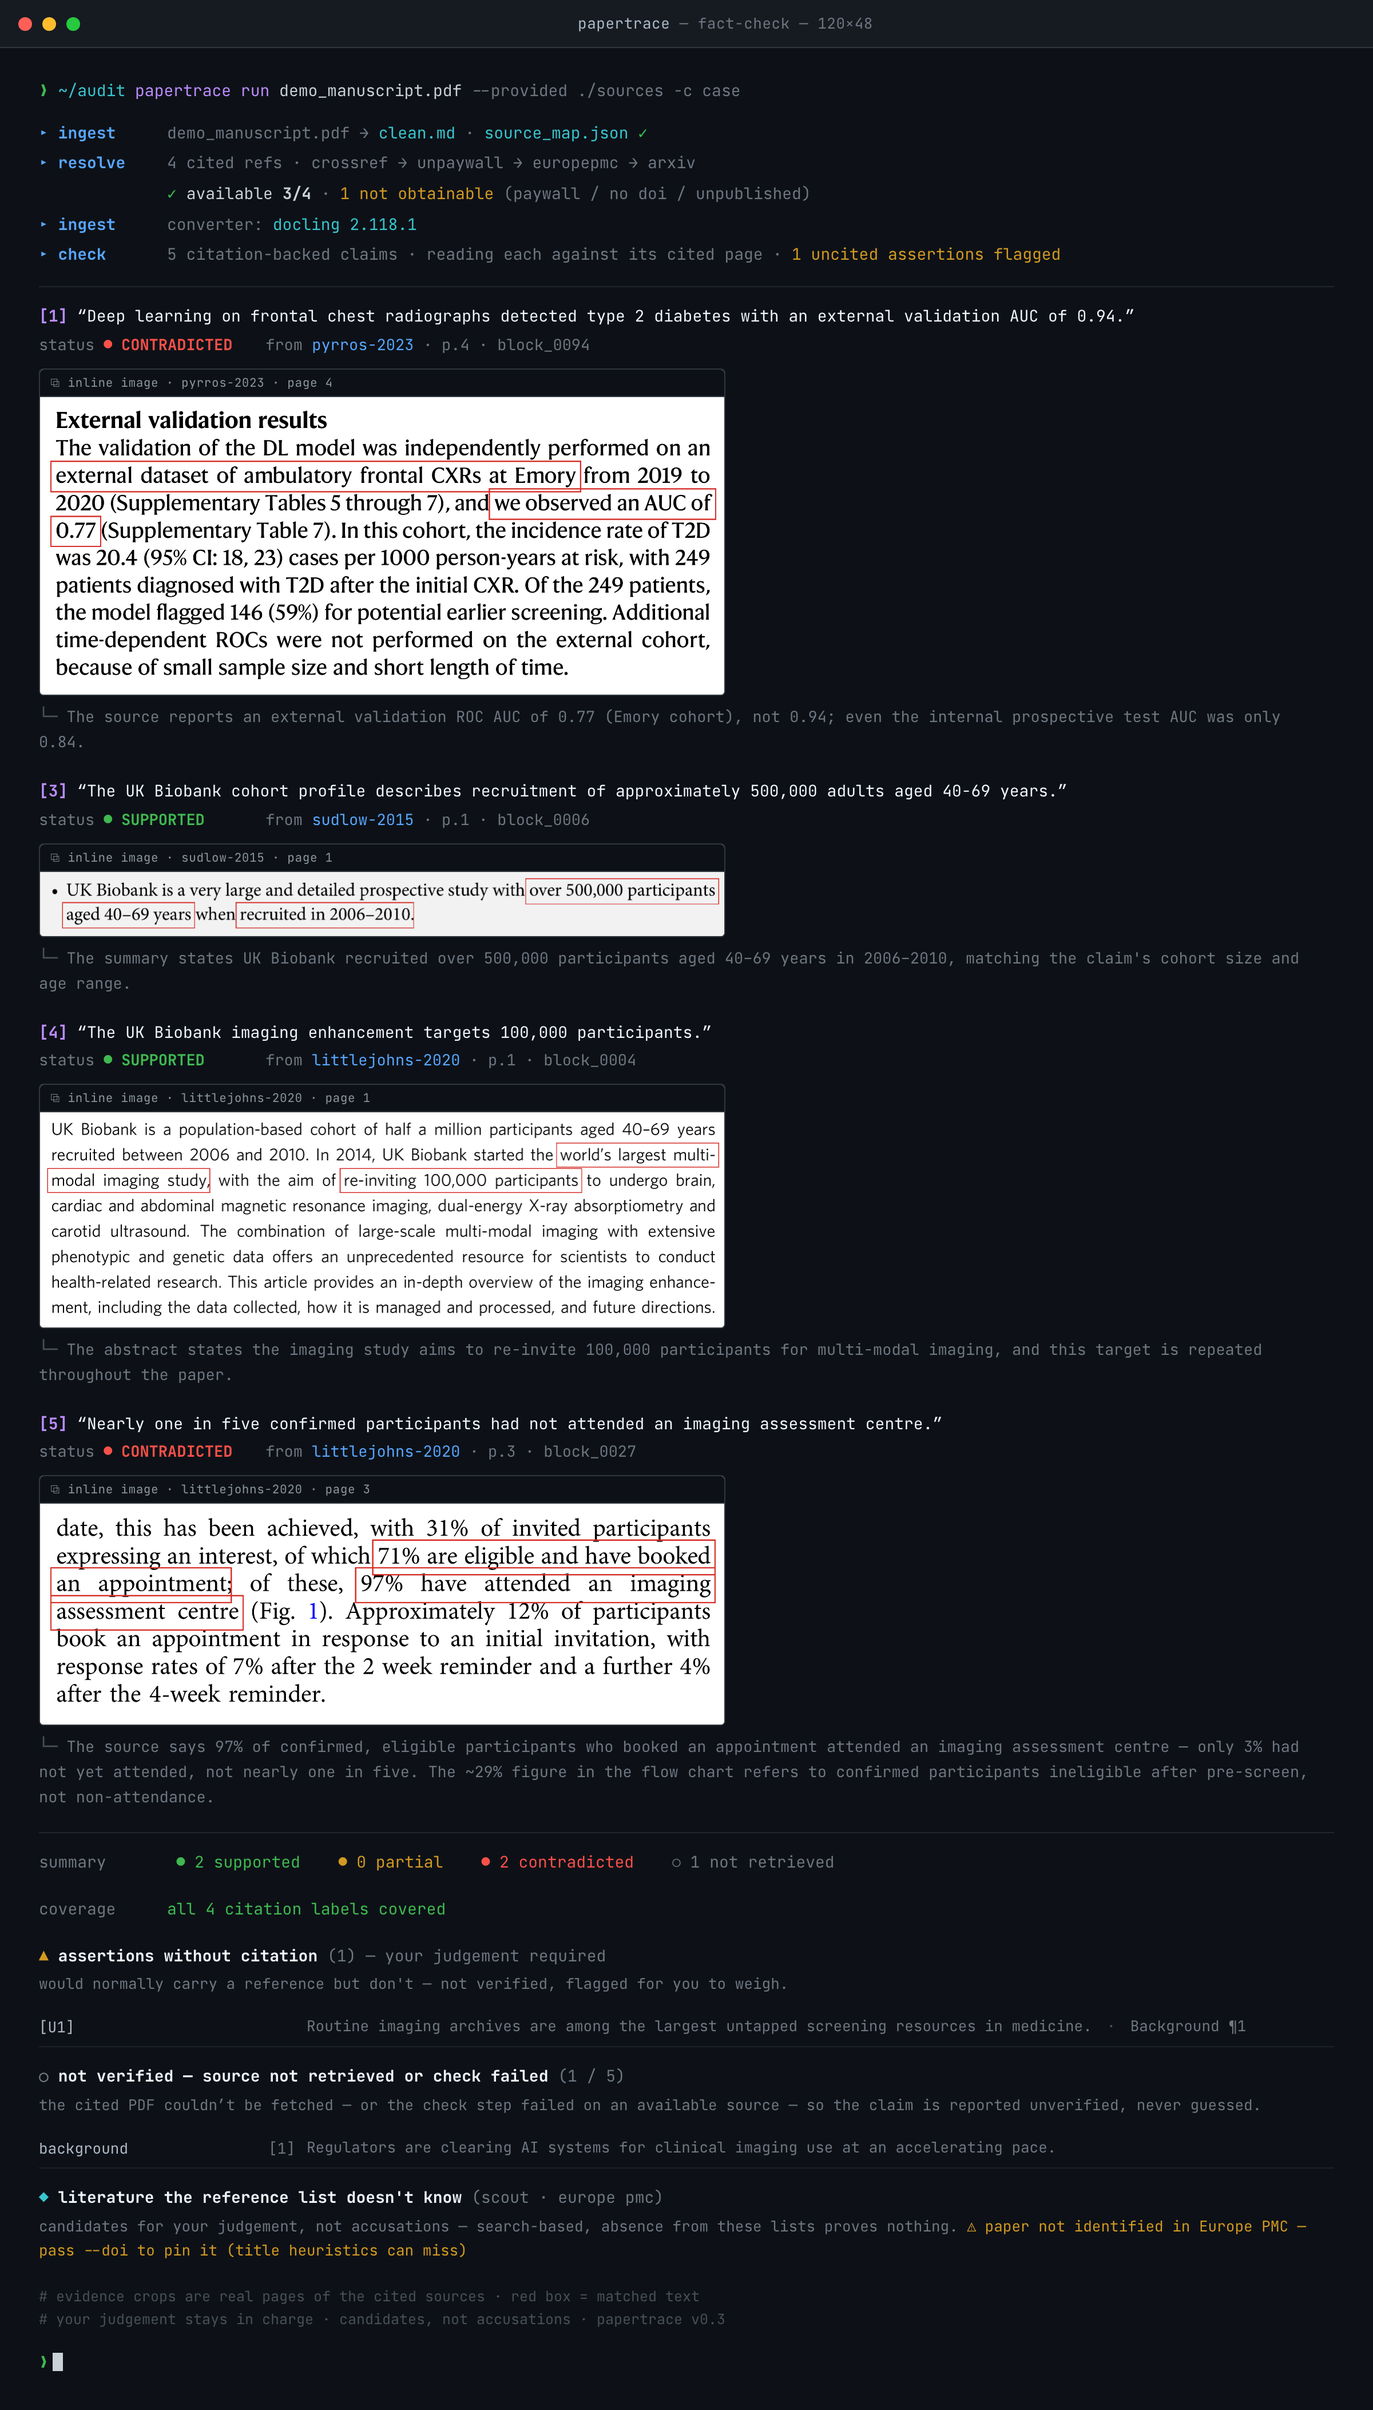
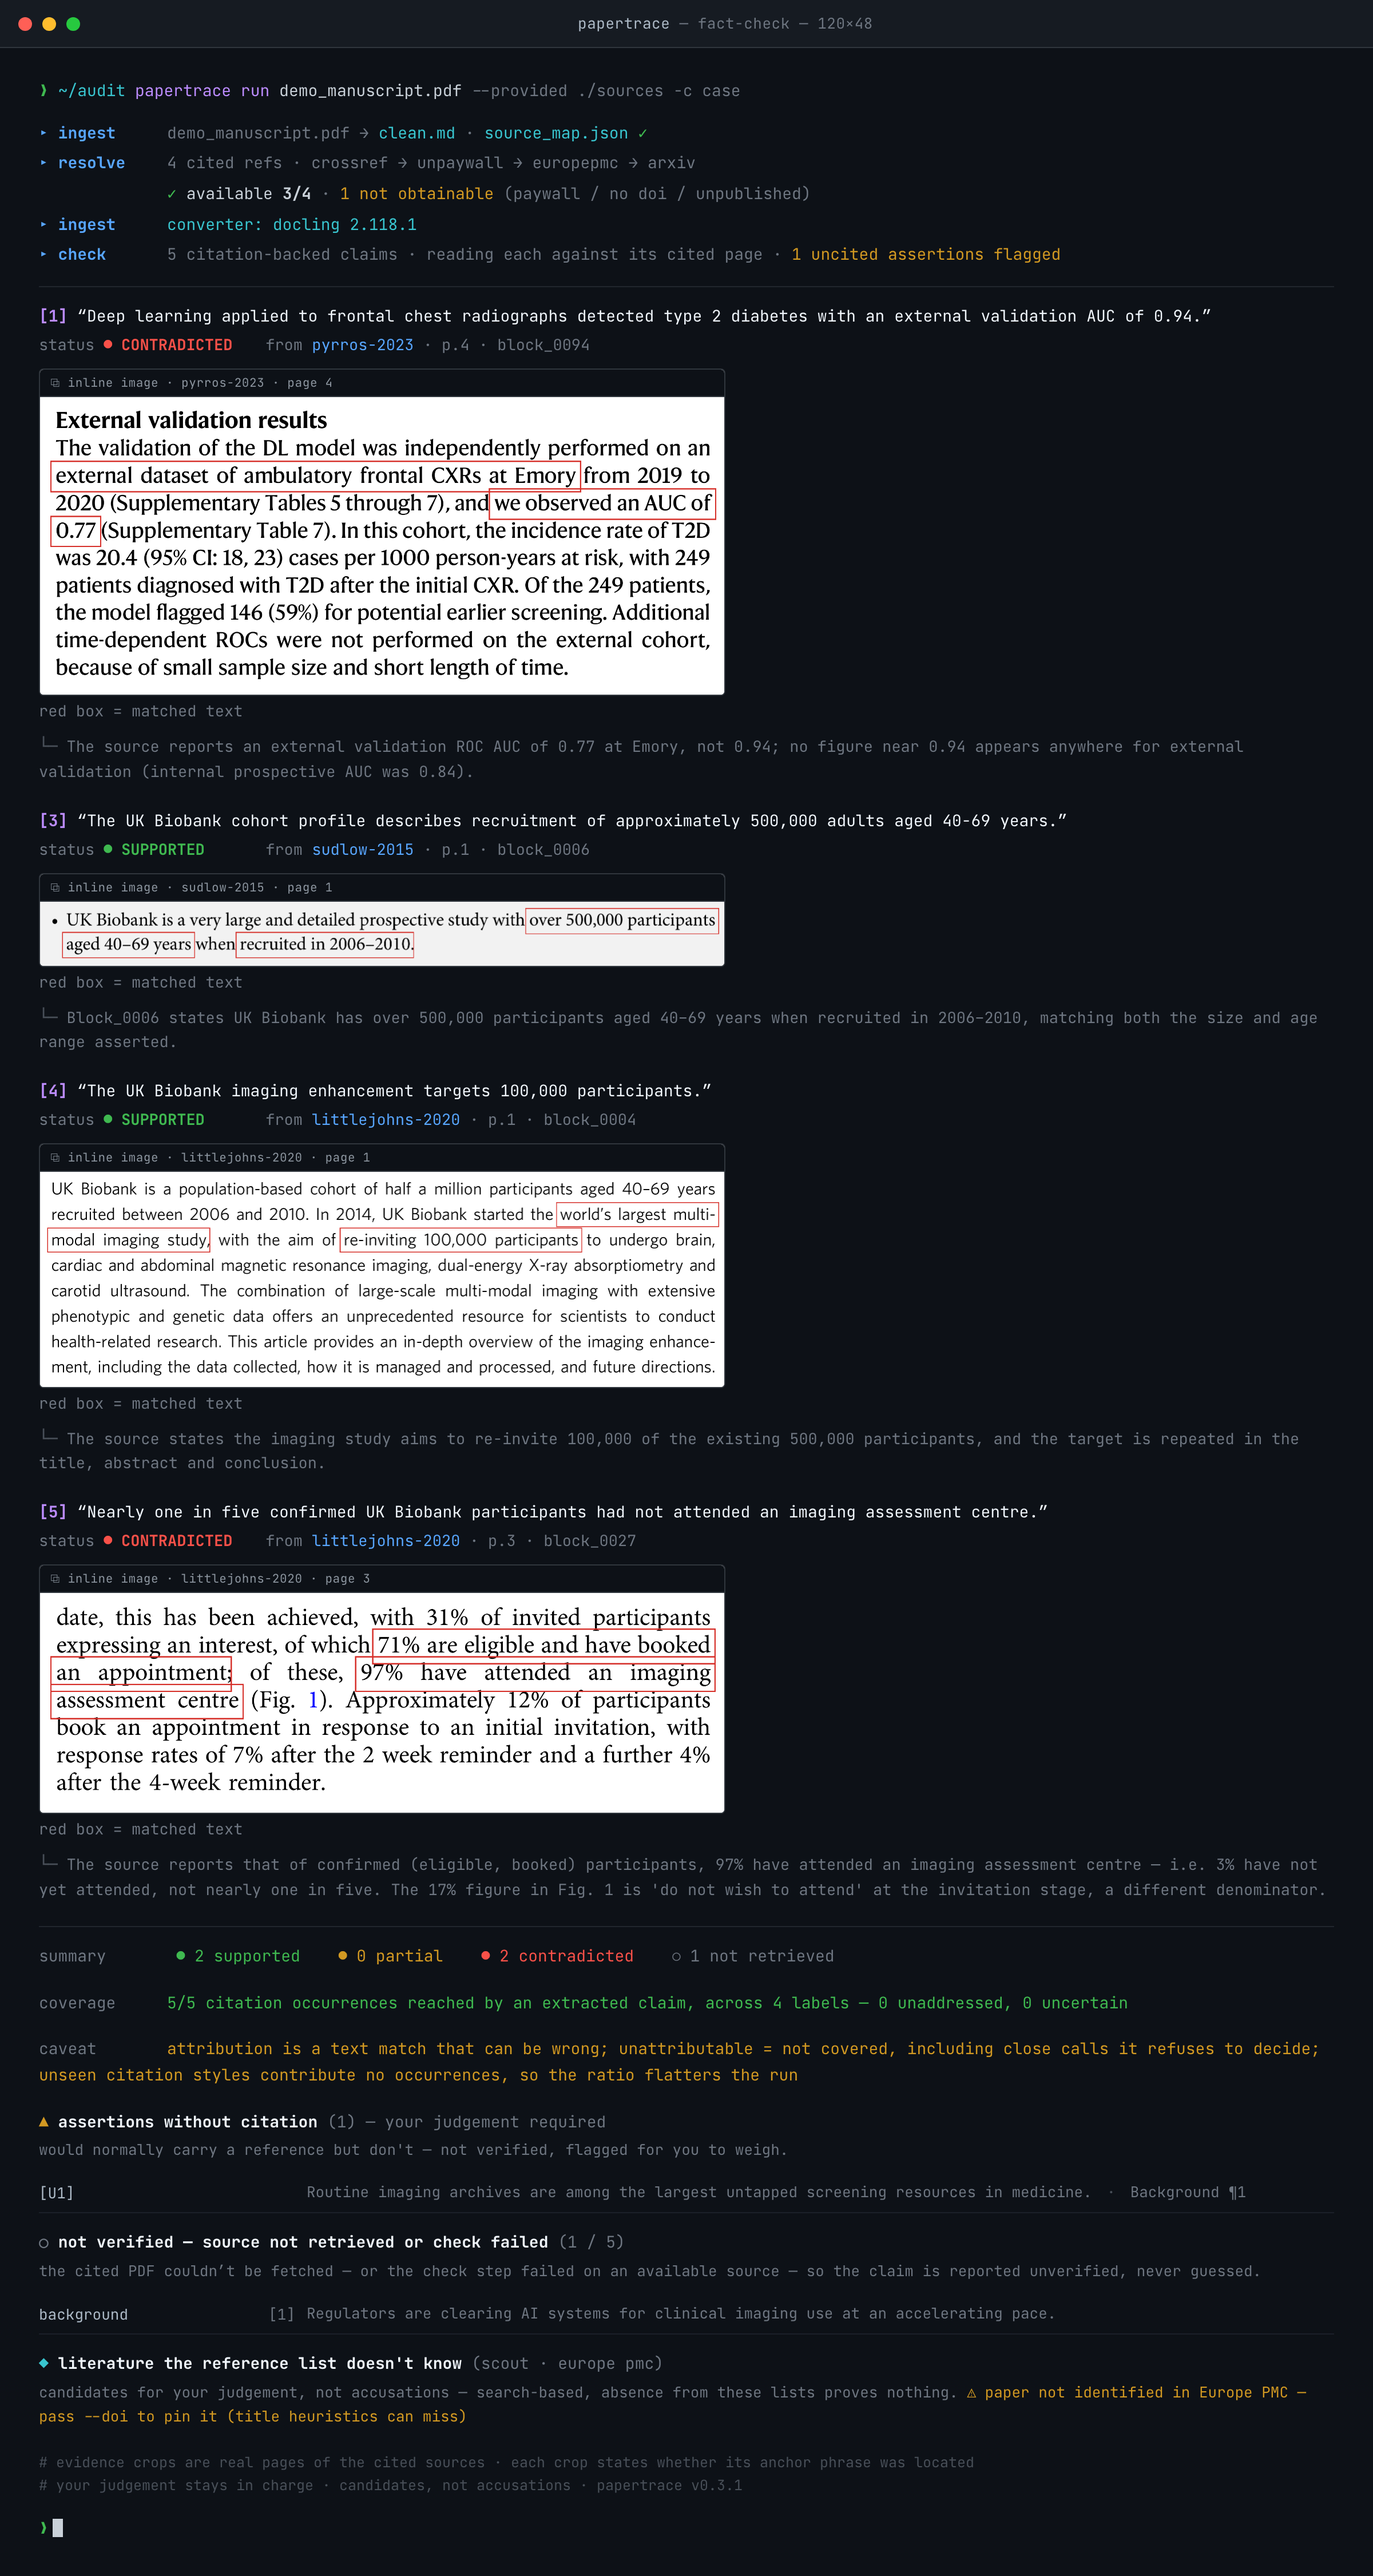
demo: regenerate the committed report against the current pipeline
examples/demo/output/ is what the README sends a first-time reader to, and it
predated every disclosure the last two rounds added. It named the checker only
as "Claude", reported "all 4 citation labels covered", and carried neither the
converter stamp nor the attribution caveat.

Regenerated from a live run. Same result as documented — 2 supported,
2 contradicted, 1 not retrieved, 1 uncited assertion — and now:
"5/5 citation occurrences reached by an extracted claim, across 4 labels".
Claims 4 and 5 both cite [3], which is the duplicate-label case that motivated
occurrence coverage in the first place, so the artefact now demonstrates it.

make_manuscript.py crashed with a bare ModuleNotFoundError when playwright was
absent, which is the case after `pip install -e ".[dev]"`. It names the extra
to install, the way render.py already did for the same import.

diff --git a/examples/demo/make_manuscript.py b/examples/demo/make_manuscript.py
@@ -94,7 +94,19 @@ def main() -> None:
 
     import glob
 
-    from playwright.sync_api import sync_playwright
+    try:
+        from playwright.sync_api import sync_playwright
+    except ImportError:
+        # `[dev]` does not carry playwright, so a contributor who followed
+        # CONTRIBUTING and then tried the demo used to get a bare traceback.
+        # Say what to install, the way render.py does for the same import.
+        raise SystemExit(
+            "This script renders the demo paper with playwright, which is not "
+            "installed.\n"
+            "    pip install -e \".[png]\"      # or \".[full]\" for docling too\n"
+            "    playwright install chromium\n"
+            "then re-run this script."
+        ) from None
 
     exe = None
     hits = sorted(glob.glob("/opt/pw-browsers/chromium-*/chrome-linux/chrome"))

diff --git a/examples/demo/output/report.md b/examples/demo/output/report.md
@@ -1,14 +1,18 @@
 # Fact-Check Report
 
-Checker: `Claude` · PaperTrace · 2026-08-16
+Checker: `claude -p · claude-opus-5[1m]` · PaperTrace · 2026-08-27
 Manuscript: `demo_manuscript.pdf` · Sources: `3 / 4` cited references available
 
 **Claims:** 5 | ✅ **Supported:** 2 | ⚠ **Partial:** 0 | ❌ **Contradicted:** 2 | ⊘ **Not retrieved:** 1
-**Citation coverage:** all 4 citation labels covered ✓
+**Citation coverage:** 5/5 citation occurrences reached by an extracted claim, across 4 labels — 0 unaddressed, 0 uncertain. Coverage counts places an extracted claim *reached*, not sources that were read.
+
+> Ingest `converter: docling 2.118.1` — layout-aware.
+
+> ⚠ How to read that figure: attribution is a text match that can be wrong — deciding which citation a claim came from is a text comparison, so the counts can be right while a pointer is wrong. An attribution the tool cannot make counts as NOT covered, never as covered — and it refuses close calls, so two similar sentences citing one reference can both read as unaddressed where a reader would pair them at a glance. This figure understates coverage there. A sentence citing the same reference twice needs two extracted claims, so the ratio is not comparable between papers. And detection still reads bracketed numeric markers only — a citation style it cannot see contributes no occurrences at all, which makes this ratio look better than reality, not worse.
 
 ---
 
-## Claim 1: "Deep learning on frontal chest radiographs detected type 2 diabetes with an external validation AUC of 0.94."
+## Claim 1: "Deep learning applied to frontal chest radiographs detected type 2 diabetes with an external validation AUC of 0.94."
 
 **Status:** ❌ CONTRADICTED
 **Location:** Background ¶1 · cites [1]
@@ -17,8 +21,7 @@ Manuscript: `demo_manuscript.pdf` · Sources: `3 / 4` cited references available
 - **Source:** Page 4 `(block_0094)` 
 ![evidence](evidence/claim_01_pyrros-2023_p4.png)
 *red box = matched text*
-
-> The source reports an external validation ROC AUC of 0.77 (Emory cohort), not 0.94; even the internal prospective test AUC was only 0.84.
+> The source reports an external validation ROC AUC of 0.77 at Emory, not 0.94; no figure near 0.94 appears anywhere for external validation (internal prospective AUC was 0.84).
 
 ## Claim 3: "The UK Biobank cohort profile describes recruitment of approximately 500,000 adults aged 40-69 years."
 
@@ -29,8 +32,7 @@ Manuscript: `demo_manuscript.pdf` · Sources: `3 / 4` cited references available
 - **Source:** Page 1 `(block_0006)` 
 ![evidence](evidence/claim_03_sudlow-2015_p1.png)
 *red box = matched text*
-
-> The summary states UK Biobank recruited over 500,000 participants aged 40–69 years in 2006–2010, matching the claim's cohort size and age range.
+> Block_0006 states UK Biobank has over 500,000 participants aged 40–69 years when recruited in 2006–2010, matching both the size and age range asserted.
 
 ## Claim 4: "The UK Biobank imaging enhancement targets 100,000 participants."
 
@@ -41,10 +43,9 @@ Manuscript: `demo_manuscript.pdf` · Sources: `3 / 4` cited references available
 - **Source:** Page 1 `(block_0004)` 
 ![evidence](evidence/claim_04_littlejohns-2020_p1.png)
 *red box = matched text*
+> The source states the imaging study aims to re-invite 100,000 of the existing 500,000 participants, and the target is repeated in the title, abstract and conclusion.
 
-> The abstract states the imaging study aims to re-invite 100,000 participants for multi-modal imaging, and this target is repeated throughout the paper.
-
-## Claim 5: "Nearly one in five confirmed participants had not attended an imaging assessment centre."
+## Claim 5: "Nearly one in five confirmed UK Biobank participants had not attended an imaging assessment centre."
 
 **Status:** ❌ CONTRADICTED
 **Location:** Population imaging ¶1 · cites [3]
@@ -53,8 +54,7 @@ Manuscript: `demo_manuscript.pdf` · Sources: `3 / 4` cited references available
 - **Source:** Page 3 `(block_0027)` 
 ![evidence](evidence/claim_05_littlejohns-2020_p3.png)
 *red box = matched text*
-
-> The source says 97% of confirmed, eligible participants who booked an appointment attended an imaging assessment centre — only 3% had not yet attended, not nearly one in five. The ~29% figure in the flow chart refers to confirmed participants ineligible after pre-screen, not non-attendance.
+> The source reports that of confirmed (eligible, booked) participants, 97% have attended an imaging assessment centre — i.e. 3% have not yet attended, not nearly one in five. The 17% figure in Fig. 1 is 'do not wish to attend' at the invitation stage, a different denominator.
 
 ---
 
